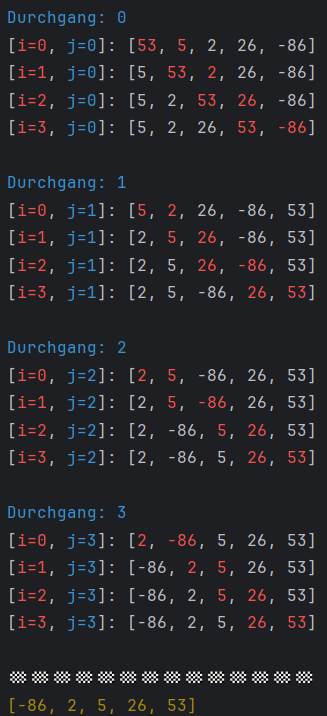
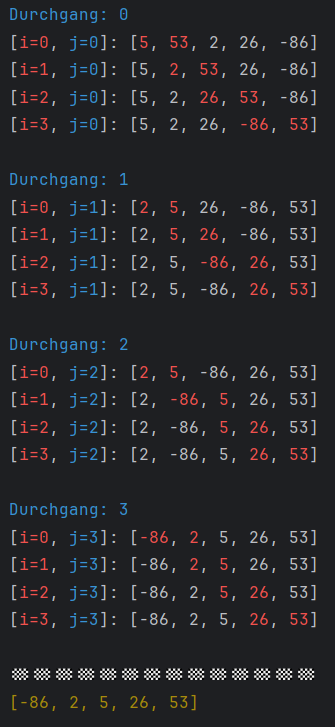
asfd

diff --git a/BITEC/ModulTests/Modul1/src/VergangeneTests/ModulTest_2025_06/Aufgabe_1/Programmieren_02.java b/BITEC/ModulTests/Modul1/src/VergangeneTests/ModulTest_2025_06/Aufgabe_1/Programmieren_02.java
@@ -1,62 +1,64 @@
-    package VergangeneTests.ModulTest_2025_06.Aufgabe_1;
+package VergangeneTests.ModulTest_2025_06.Aufgabe_1;
 
-    import java.lang.reflect.Array;
-    import java.util.Arrays;
+import java.lang.reflect.Array;
+import java.util.Arrays;
 
-    public class Programmieren_02 {
-        static String ANSI_RESET = "\u001B[0m";
-        static String ANSI_RED = "\u001B[31m";
-        static String ANSI_BLUE = "\u001B[34m";
-        static String ANSI_YELLOW = "\u001B[33m";
-        static String colorOfOuterLoop = ANSI_RED;
-        static String colorOfInnerLoop = ANSI_BLUE;
+public class Programmieren_02 {
+    static String ANSI_RESET = "\u001B[0m";
+    static String ANSI_RED = "\u001B[31m";
+    static String ANSI_BLUE = "\u001B[34m";
+    static String ANSI_YELLOW = "\u001B[33m";
+    static String colorOfOuterLoop = ANSI_RED;
+    static String colorOfInnerLoop = ANSI_BLUE;
 
-        public static void main(String[] args) {
-            int[] zahlen = {53, 5, 2, 26, -86};
+    public static void main(String[] args) {
+        int[] zahlen = {53, 5, 2, 26, -86};
 
-            for (int j = 0; j < zahlen.length - 1; j++) {
-                System.out.println(colorOfInnerLoop + "Durchgang: " + j + ANSI_RESET);
+        for (int j = 0; j < zahlen.length - 1; j++) {
+            System.out.println(colorOfInnerLoop + "Durchgang: " + j + ANSI_RESET);
 
-                for (int i = 0; i < zahlen.length - 1; i++) {
-                    String zahlenColored = colorAt(
-                            zahlen,
-                            new int[]{i+1, i},
-                            new String[]{colorOfOuterLoop, colorOfOuterLoop},
-                            ANSI_RESET
-                    );
-
-                    System.out.println(
-                            "[" +
-                                    colorOfOuterLoop + "i=" + i + ANSI_RESET + ", " +
-                                    colorOfInnerLoop + "j=" + j + ANSI_RESET +
-                                    "]: " +
-                                    zahlenColored + ANSI_RESET
-                    );
-
-                    if (zahlen[i] > zahlen[i+1]) {
-                        int platzhalter = zahlen[i+1];
-                        zahlen[i+1] = zahlen[i];
-                        zahlen[i] = platzhalter;
-                    }
+            for (int i = 0; i < zahlen.length - 1; i++) {
+                if (zahlen[i] > zahlen[i+1]) {
+                    int platzhalter = zahlen[i+1];
+                    zahlen[i+1] = zahlen[i];
+                    zahlen[i] = platzhalter;
                 }
-                System.out.println();
-            }
 
-            System.out.println("🏁".repeat(14));
-            System.out.println(ANSI_YELLOW + Arrays.toString(zahlen) + ANSI_RESET);
+                // Bunte - Ausgabe
+                String zahlenColored = colorAt(
+                    zahlen,
+                    new int[]{i+1, i},
+                    new String[]{colorOfOuterLoop, colorOfOuterLoop},
+                    ANSI_RESET
+                );
+
+                System.out.println(
+                    "[" +
+                        colorOfOuterLoop + "i=" + i + ANSI_RESET + ", " +
+                        colorOfInnerLoop + "j=" + j + ANSI_RESET +
+                    "]: " +
+                    zahlenColored + ANSI_RESET
+                );
+
+            }
+            System.out.println();
         }
 
-        static String colorAt(int[] zahlen, int[] posToColor, String[] colorOfPos, String baseColor) {
-            String[] coloredZahlen = new String[zahlen.length];
-
-            for (int i = 0; i < zahlen.length; i++) {
-                coloredZahlen[i] = Integer.toString(zahlen[i]);
-            }
-
-            for (int i = 0; i < posToColor.length; i++) {
-                coloredZahlen[posToColor[i]] = colorOfPos[i] + zahlen[posToColor[i]] + baseColor;
-            }
-
-            return baseColor + Arrays.toString(coloredZahlen);
-        }
+        System.out.println("🏁".repeat(14));
+        System.out.println(ANSI_YELLOW + Arrays.toString(zahlen) + ANSI_RESET);
     }
+
+    static String colorAt(int[] zahlen, int[] posToColor, String[] colorOfPos, String baseColor) {
+        String[] coloredZahlen = new String[zahlen.length];
+
+        for (int i = 0; i < zahlen.length; i++) {
+            coloredZahlen[i] = Integer.toString(zahlen[i]);
+        }
+
+        for (int i = 0; i < posToColor.length; i++) {
+            coloredZahlen[posToColor[i]] = colorOfPos[i] + zahlen[posToColor[i]] + baseColor;
+        }
+
+        return baseColor + Arrays.toString(coloredZahlen);
+    }
+}
